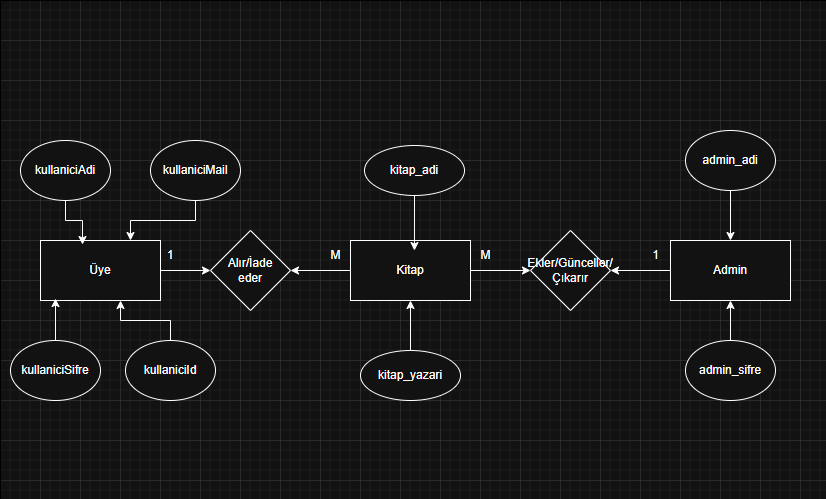
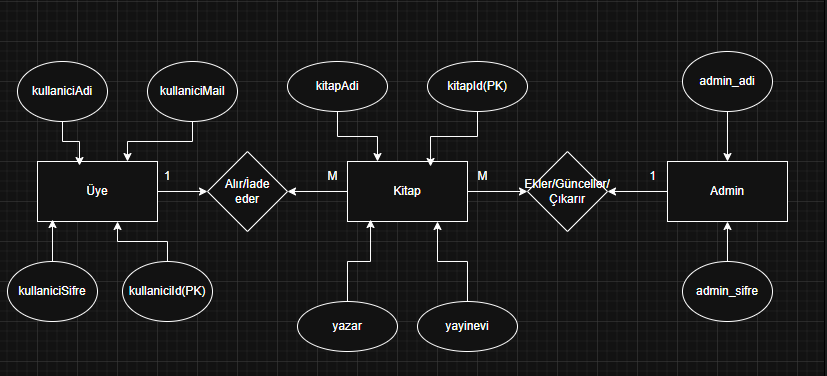
feat:Katmanlı Mimariye geçildi!

diff --git a/templates/member.html b/templates/member.html
@@ -55,12 +55,11 @@
     <div class="panel">
         <h1>Üye Paneli</h1>
         <div class="options">
-            <button>Kitap Ara</button>
+            <button onclick="window.location.href='{{ url_for('user.kitaplarSayfasi') }}'">Kitap Ara</button>
             <button>Ödünç Alma</button><br>
             <button>İade Etme</button>
             <button>Ceza Bilgi</button>
-            <button onclick="window.location.href='login.html'">Çıkış Yap</button>
+            <button onclick="window.location.href='{{ url_for('user.logout') }}'">Çıkış Yap</button>
         </div>
     </div>
 </body>
-</html>

diff --git a/backend.py b/backend.py
@@ -1,41 +1,12 @@
-from flask import Flask, request, redirect, render_template, session, flash, url_for
-import mysql.connector
-from werkzeug.security import generate_password_hash, check_password_hash
+from flask import Flask
+from routes.userRoutes import userBp
+from routes.bookRoutes import bookBp
 
 app=Flask(__name__)
 app.secret_key = "HeasPoty!l01Zs"
 
-con = mysql.connector.connect(host="localhost",user="root",password="710088",database="library")
+app.register_blueprint(userBp)
+app.register_blueprint(bookBp)
 
-@app.route("/")
-def index():
-    return render_template("login.html")
-
-@app.route("/userLogin", methods=["POST"])
-def user_login():
-    mail = request.form.get("mail")
-    sifre = request.form.get("sifre")
-    cur = con.cursor(dictionary=True)
-    cur.execute("SELECT * FROM kullanicilar WHERE mail=%s",(mail,))
-    user = cur.fetchone()
-    cur.close()
-
-    if user and check_password_hash(user["sifre"], sifre):
-        session["userId"] = user["kullaniciId"]
-        session["userName"] = user["kullaniciAdi"]
-        flash("Giriş başarılı!", "success")
-        return redirect(url_for("member"))
-    else:
-        flash("Girilen bilgiler uyuşmuyor!", "danger")
-        return redirect(url_for("index"))
-
-@app.route("/member", methods=["GET"])
-def member():
-    if "userId" in session:
-        return render_template("member.html")
-    else:
-        flash("Önce giriş yapmalısınız!", "danger")
-        return redirect(url_for("index"))
-    
 if __name__ == "__main__":
     app.run(debug=True)

diff --git a/routes/userRoutes.py b/routes/userRoutes.py
@@ -1,0 +1,47 @@
+from flask import Blueprint, request, session, redirect, url_for, flash, render_template
+from services.userService import UserService
+
+userBp = Blueprint("user", __name__)
+
+@userBp.route("/")
+def index():
+    return render_template("login.html")
+
+@userBp.route("/userLogin", methods=["POST"])
+def userLogin():
+    mail = request.form.get("mail")
+    sifre = request.form.get("sifre")
+
+    user = UserService.login(mail, sifre)
+
+    if user:
+        session["userId"] = user.id
+        session["userName"] = user.name
+        flash("Giriş Başarılı!", "success")
+        return redirect(url_for("user.member"))
+    else:
+        flash("Girilen bilgiler uyuşmuyor!", "danger")
+        return redirect(url_for("user.index"))
+    
+@userBp.route("/member")
+def member():
+    if "userId" in session:
+        return render_template("member.html")
+    
+    flash("Önce giriş yapmalısınız!", "danger")
+    return redirect(url_for("user.index"))
+
+@userBp.route("/kitaplar-sayfasi") 
+def kitaplarSayfasi():
+    if "userId" not in session:
+        flash("Önce giriş yapmalısınız!", "danger")
+        return redirect(url_for("user.index"))
+        
+    return render_template("kitaplar.html")
+
+@userBp.route("/logout")
+def logout():
+    session.pop("userId", None)
+    session.pop("userName", None)
+    flash("Çıkış yaptınız.", "info")
+    return redirect(url_for("user.index"))

diff --git a/repository/bookRepository.py b/repository/bookRepository.py
@@ -1,0 +1,18 @@
+from config.db import getConnection
+from models.bookModel import Book
+
+class BookRepository:
+
+    @staticmethod
+    def getBooks():
+        con = getConnection()
+        cur = con.cursor(dictionary=True)
+        cur.execute("SELECT kitapId AS id, kitapAdi AS ad, yazar, yayinevi FROM kitaplar")
+        rows = cur.fetchall()
+        cur.close()
+        con.close()
+
+        books = []
+        for row in rows:
+            books.append(Book(id=row["id"], ad=row["ad"], yazar=row["yazar"], yayinevi=row["yayinevi"]))
+        return books

diff --git a/routes/bookRoutes.py b/routes/bookRoutes.py
@@ -1,0 +1,22 @@
+from flask import Blueprint, jsonify, session
+from services.bookService import BookService
+
+bookBp = Blueprint("book", __name__)
+
+@bookBp.route("/kitaplar")
+def kitaplar():
+    if "userId" not in session:
+        return jsonify({"error": "Giriş yapılmalı!"}), 403
+    
+    books = BookService.getBooks()
+
+    data = [
+        {
+            "id": b.id, 
+            "ad": b.ad,
+            "yazar": b.yazar,
+            "yayinevi": b.yayinevi   
+        }
+        for b in books
+    ]
+    return jsonify(data)

diff --git a/repository/userRepository.py b/repository/userRepository.py
@@ -1,0 +1,18 @@
+from config.db import getConnection
+from models.userModel import User
+
+class UserRepository:
+
+    @staticmethod
+    def getUserByMail(mail):
+        con = getConnection()
+        cur = con.cursor(dictionary=True)
+        cur.execute("SELECT * FROM kullanicilar WHERE mail=%s", (mail,))
+        row = cur.fetchone()
+        cur.close()
+        con.close()
+
+        if row:
+            return User(id=row["kullaniciId"], name=row["kullaniciAdi"], mail = row["mail"], sifre= row["sifre"])
+        
+        return None

diff --git a/services/userService.py b/services/userService.py
@@ -1,0 +1,12 @@
+from werkzeug.security import check_password_hash
+from repository.userRepository import UserRepository
+
+class UserService:
+
+    @staticmethod
+    def login(mail, password):
+        user = UserRepository.getUserByMail(mail)
+        if user and check_password_hash(user.sifre, password):
+            return user
+        
+        return None

diff --git a/models/bookModel.py b/models/bookModel.py
@@ -1,0 +1,6 @@
+class Book:
+    def __init__(self, id, ad, yazar, yayinevi):
+        self.id = id
+        self.ad = ad
+        self.yazar = yazar
+        self.yayinevi = yayinevi

diff --git a/models/userModel.py b/models/userModel.py
@@ -1,0 +1,6 @@
+class User:
+    def __init__(self, id, name, mail, sifre):
+        self.id = id
+        self.name = name
+        self.mail = mail
+        self.sifre = sifre

diff --git a/services/bookService.py b/services/bookService.py
@@ -1,0 +1,7 @@
+from repository.bookRepository import BookRepository
+
+class BookService:
+
+    @staticmethod
+    def getBooks():
+        return BookRepository.getBooks()

diff --git a/config/db.py b/config/db.py
@@ -1,0 +1,4 @@
+import mysql.connector
+
+def getConnection():
+    return mysql.connector.connect(host="localhost",user="root",password="710088",database="library")

diff --git a/ReadMe.md b/ReadMe.md
@@ -1,11 +1,10 @@
 # <center>Kütüphane Ödevi(Yapım Aşamasında)</center>
 
-## Yenilikler (30.10.25)
-- **backend.py** içindeki yeni kodlar sayesinde veri tabanından bilgilerini alıp kullanıcı kontrol edip üye sayfasına geçiyor. Yanlışsa aynı sayfada kalınıyor
-- **login.html** içindeki form Flask uygun hale getirildi.
-- **login.html** artık Kullanıcı Adı yerine email soruyor.
-- html dosyaları templates dosyası altında toplandı.
-- ER ilişkisi (Hala çok hatalı zamanla düzelecek.) ve bazı fotoğraftlar yeni halleriyle güncellendi!
+## Yenilikler (01.10.25)
+- Katmanlı yapıya geçildi. config, models, repository, routes, services klasörlere ayrıldı.
+- kitaplar.html adında yeni sayfa eklendi ve kitaplar gözüküyor. Sonradan işlevsel şeyler eklenecek.
+- Çıkış butonu çalışıyor
+- ER diyagramı tekrar düzenlendi ama hala iyi düzeyde değil. Projenin sonuna doğru epey düzgün bi hale bürünecek.
 
 ## İçindekiler
 - [Sayfa Görünümü](#sayfa-görünümü)  
@@ -16,11 +15,11 @@
 ### Giriş Üye Sayfası:
 
 ![login-üye](Resimler/login%20üye.png)
-- Kutucukların içine veri yazılıp butona basınca üye panel yönlendiriyor. Ama şuanda db daha tutmadığımdan ve denetleme yapmadığımdan her türlü giriş izin veriyor. Daha sonraları onu düzelteceğim.
+- Kutucukların içine veri yazılıp butona basınca üye panel yönlendiriyor. Artık bilgiler doğruysa üye panel geçiş sağlar. Değilse geçiş olmaz.
 
 ### Giriş Admin Sayfası
-![login-adnmin](Resimler/login%20admin.png)
-- Üye ile aynı işlevlere sahip. Sadece fark olarak admin panel yönlendiriyor. Aynı şekilde bunda da daha kontrol etme yok.
+![login-admin](Resimler/login%20admin.png)
+- Üye ile aynı işlevlere sahip. Sadece fark olarak admin panel yönlendiriyor ve işlevsel olarak çalışmıyo
 
 ### Giriş Kayıt Ol Sayfası
 ![login-kayıt-ol](Resimler/login%20kayıt.png)
@@ -28,7 +27,11 @@
 
 ### Üye Panel Sayfası
 ![üye-panel](Resimler/üye%20panel.png)
-- Üyenin işlemlerini yapacağı paneldir. Şuanlık 5 buton var. Şuanlık sadece çıkış butonunun işlevi bulunmaktadır.
+- Üyenin işlemlerini yapacağı paneldir. Şuanlık 5 buton var. Şuanlık sadece Kitap Ara ve Çıkış butonu çalışmaktadır.
+
+### Kitaplar Sayfası
+![kitaplar](Resimler/kitaplar.png)
+- Database kitapları gösterir. Ger. dön butonları çalışır. İlerde eklemeler yapılacaktır.
 
 ### Admin Panel Sayfası
 ![admin-panel](Resimler/admin%20panel.png)
@@ -36,8 +39,8 @@
 
 ## ER Diyagramı
 ![ER-Diyagramı](Resimler/ER%20ilişkisi.png)
-- Şuanlık yaptığım çok güzel ve detaylı olmayan bi ER ilişkisi. Kesinlikle hatalı unsurlar vardır. Sadece şuanlık fikir olsun ve ilk hallerini de koymak istedim. Projeyi geliştirirken illa daha da güzel, düzgün ve doğru bi ER ilişkisi hazırlayacağım.
+- Daha iyi bir ER diyagramı. Yeni şeyler eklendikçe daha da güzel ve düzenli olacaktır.
 
 ## Kapanış
 
-- Yakında yeni commitle backend giriş komutları ve ek şeyler eklenecektir.
+- Yakında yeni commitle girş sayfası tamamlanacaktır.
